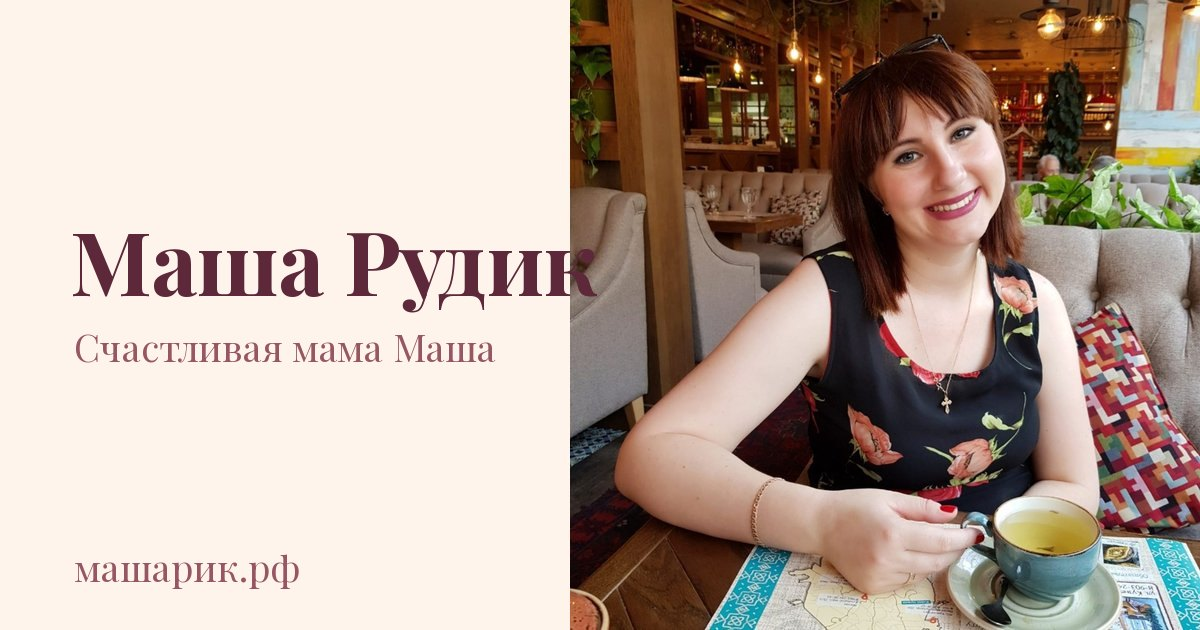
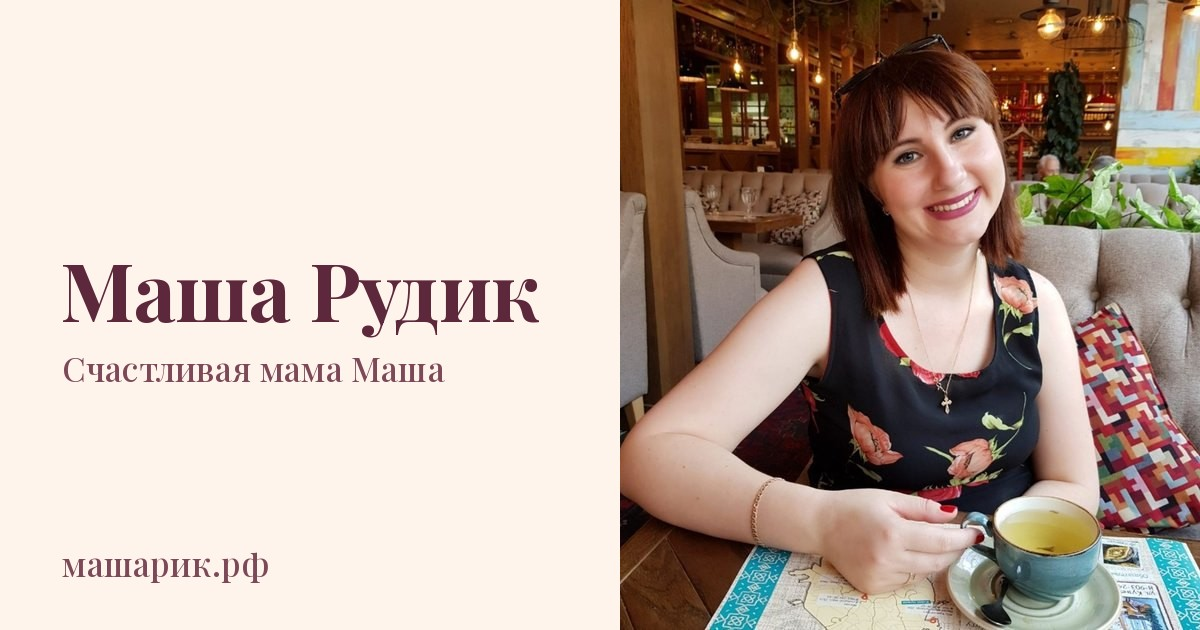
Превью ссылок: чище og-картинка, og:image:type/alt, twitter:title/description/image

Changed region(s): [[0.0308, 0.0, 0.5242, 1.0], [0.0617, 0.8746, 0.2467, 0.9349]]

diff --git a/index.html b/index.html
@@ -13,10 +13,15 @@
 <meta property="og:title" content="Маша Рудик — Машарик">
 <meta property="og:description" content="Счастливая мама Маша: фотографии и ссылки.">
 <meta property="og:url" content="https://xn--80aayig0a8c.xn--p1ai/">
-<meta property="og:image" content="https://xn--80aayig0a8c.xn--p1ai/img/og.jpg">
+<meta property="og:image" content="https://xn--80aayig0a8c.xn--p1ai/img/og.jpg?v=2">
+<meta property="og:image:type" content="image/jpeg">
 <meta property="og:image:width" content="1200">
 <meta property="og:image:height" content="630">
+<meta property="og:image:alt" content="Маша Рудик — Машарик">
 <meta name="twitter:card" content="summary_large_image">
+<meta name="twitter:title" content="Маша Рудик — Машарик">
+<meta name="twitter:description" content="Счастливая мама Маша: фотографии и ссылки.">
+<meta name="twitter:image" content="https://xn--80aayig0a8c.xn--p1ai/img/og.jpg?v=2">
 <link rel="icon" href="/favicon.ico" sizes="any">
 <link rel="icon" type="image/png" sizes="192x192" href="/favicon-192.png">
 <link rel="apple-touch-icon" href="/apple-touch-icon.png">
